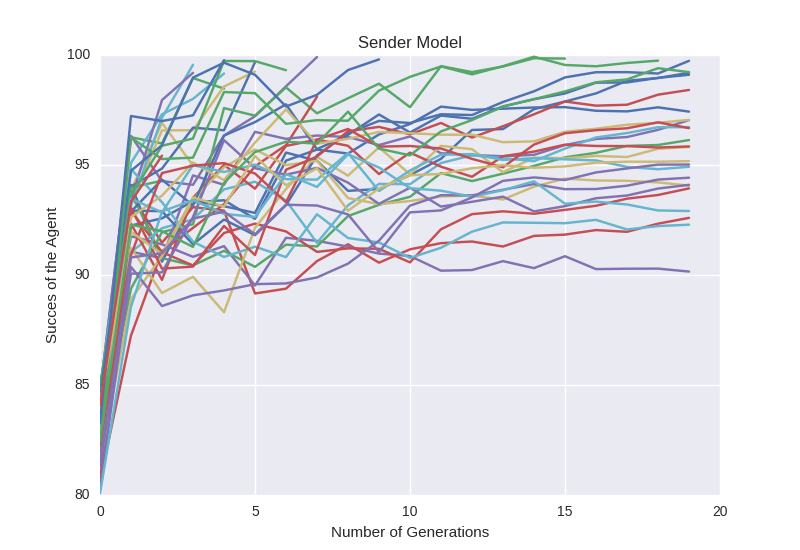
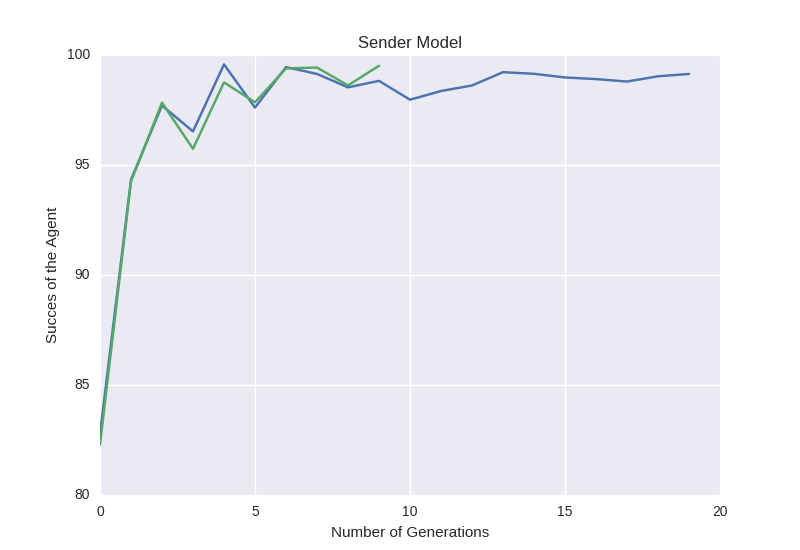
latest fixes

Changed region(s): [[0.125, 0.0927, 0.875, 0.8964]]

diff --git a/main.py b/main.py
@@ -1,6 +1,7 @@
 import random
 from genetic_alg import run_alg
 from create_sender import *
+from create_criminal import *
 
 def standardization(generation_scores):
     
@@ -19,18 +20,25 @@ if __name__ == "__main__":
 
     for i in xrange(0, number_simulations):
 
-        number_generations = 20
+        print "Simulation", i, "running"
+        
+        number_generations = 20       
         scores = []
         generation_scores = []
         Agent_set = []
         
-        genetic_pool = createPopulation(100) #Creation of random set of Agents
-        
-        #print "This is the genetic pool:", genetic_pool
+        #TODO add option which agent to simulate!
+
+        genetic_pool = create_Sender_Population(100) #Creation of random set of Agents
+        #genetic_pool = create_Criminal_Population(100)
+
+        #print "This is the genetic_algnetic pool:", genetic_pool
         for j in xrange(0,number_generations):
+            
+            print "Generation:", j
 
             tot = 0.0
-                
+            
             for i in genetic_pool:
                 c, s = splitGenesAndScores(i)
                 #print "This is the Chromosome", c
@@ -41,8 +49,7 @@ if __name__ == "__main__":
             
             Agent_set.append(genetic_pool)
 
-            
-            if tot_score < 60:
+            if tot_score < 65:
                 generation_scores.append(tot_score) #Single Scores are saved in a global list for plotting
 
             #print "This is the score of the population:", scores

diff --git a/genetic_alg.py b/genetic_alg.py
@@ -1,6 +1,6 @@
 import random
 
-n_survive = 70
+n_survive = 70	
 
 def three_parent_crossover(parent_1, parent_2, parent_3):
 
@@ -34,7 +34,7 @@ def random_mutation(generation):
 	index = random.randrange(len(generation))
 	gene_to_mutate = generation[index]
 
-	print "Gene to mutate:", gene_to_mutate
+	#print "Gene to mutate:", gene_to_mutate
 
 	list_gene_to_mutate = list(gene_to_mutate)
 
@@ -51,7 +51,7 @@ def random_mutation(generation):
 		
 	mutated_gen = ''.join(str(e) for e in list_gene_to_mutate)
 	generation[index] = mutated_gen
-		
+	
 	return generation
 
 def prepare_pool(sorted_pool):
@@ -82,6 +82,6 @@ def run_alg(pool, scores):
 		new_gen.append(c2)
 
 	mutated_gen = random_mutation(new_gen)
-	print "Length of the newest generation:", len(mutated_gen)
+	#print "Length of the newest generation:", len(mutated_gen)
 	
-	return new_gen
+	return mutated_gen

diff --git a/plots.py b/plots.py
@@ -14,9 +14,9 @@ def makeplots(number_generations, sc):
     plt.xlabel('Number of Generations')
     plt.ylabel('Succes of the Agent')
     plt.title('Sender Model')
-    plt.ylim([80,100])
+    plt.ylim([70, 100])
     plt.plot(number_generations, sc)
-    plt.savefig('res/GenAl/genAl.png')
+    plt.savefig('res/GenAl/Criminal/genAl.png')
     #plt.show()
 
 def Final_StatPlots(b, d, i):
@@ -50,8 +50,8 @@ def Final_StatPlots(b, d, i):
 
     plt.xlabel('Feature Values')
     plt.ylabel('Feature Occurance')
-    plt.title('Scores')
-    plt.ylim([0,20]) 
+    plt.title('Sender Scores')
+    plt.ylim([0,25]) 
     
     ax = plt.subplot(111)
     ax.bar(b_values-0.25, b_occurences,width=0.2,color='gold',align='center')

diff --git a/create_sender.py b/create_sender.py
@@ -110,7 +110,7 @@ def splitGenesAndScores(Chromosome):   #Every Agent is separated and individual 
 
     return Chromosome, ChromosomeScore
 
-def createPopulation(num_pop): #A population of Agents is created
+def create_Sender_Population(num_pop): #A population of Agents is created
                                #List of Chromosomes 
      
     population = []
